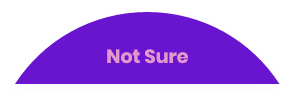
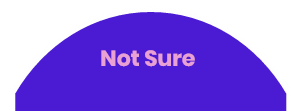
sth special'

diff --git a/lib/DataBase/addData.dart b/lib/DataBase/addData.dart
@@ -8,9 +8,12 @@ int count = 1;
 
 main(List<String> args) async{
   deleteAll().then((_){
-    addDb();
+    Future.delayed(Duration(seconds: 10)).then((_){
+      addDb();
+      }
+    );
   }
-  );
+);
 }
 
 addDb() async{
@@ -45,7 +48,7 @@ addDb() async{
   addRow("Denin Paul", "Aneeta", "M", "CSB", "Thrissur", "n", "T", "christian","CMI", "n", "y", "n", "n", "y", "n", "n" , "y"  , "y" , "n" , "n" , "n" );
   addRow("George Sabu", "Aneeta", "M", "CSB", "Kottayam", "n", "T", "christian","Kendriya Vidyalaya", "n", "n", "n", "n", "y", "y", "n" , "y"  , "n" , "n" , "n" , "n" );
   addRow("Abiram P", "Some other PG", "M", "CSB", "Kozhikode", "n", "A", "hindu","St Thomas", "n", "n", "n", "n", "n", "n", "n" , "n"  , "y" , "n" , "n" , "n" );
-  addRow("Joel Joshua", "MH", "M", "CSA", "Kasargode", "n", "A", "christian", "Chavara", "n", "y", "n", "n", "n", "n", "n" , "n"  , "n" , "n" , "n" , "n" );
+  addRow("Joel Joshua", "MH", "M", "CSA", "Kasargode", "n", "A", "christian", "Chavara", "n", "y", "n", "n", "n", "n", "n" , "n" , "n" , "n" , "n" , "n" );
   addRow("Neeraj Hari", "Some other PG", "M", "CSA", "Alapuzha", "n", "T", "hindu","Kendriya Vidyalaya", "n", "y", "n", "n", "y", "n", "y" , "n"  , "n" , "n" , "n" , "n" );
   addRow("Akhil Prem", "Some other PG", "M", "CSB", "Kannur", "y", "D", "hindu","Bharatiya Vidya Bhavan", "n", "n", "n", "n", "n", "n", "n" , "n"  , "n" , "n" , "n" , "n" );
   addRow("Jomey J James", "MH", "M", "CSB", "Thiruvananthapuram", "n", "A", "christian","KE", "n", "y", "n", "n", "n", "y", "n" , "n"  , "n" , "n" , "n" , "n" );
@@ -77,9 +80,7 @@ addDb() async{
   addRow("Vinayak Sidharth", "MH", "M", "CSB", "Kozhikode", "n", "A", "hindu","Rays Public School", "n", "n", "n", "n", "n", "n", "n" , "n"  , "n" , "n" , "n" , "n" );
   addRow("Kevin Abraham", "Sky Blue", "M", "CSA", "Ernakulam", "n", "R", "christian","Chavara", "n", "y", "n", "y", "n", "n", "n" , "n"  , "n" , "n" , "n" , "n" );
 
-
   //DS
-
   addRow("Goutham R", "NIL", "M", "CSA", "Kozhikode", "n", "R", "hindu","Saraswathi Vidyanikethan", "y", "n", "n", "n", "n", "n", "y" , "n"  , "n" , "n" , "n" , "n" );
   addRow("Pranav Jayashankar", "NIL", "M", "CSA", "Ernakulam", "n", "R", "hindu","Bhavan's Vidya Mandir", "y", "n", "y", "n", "y", "y", "n" , "n"  , "y" , "n" , "y" , "y" );
   addRow("Noel Eldho", "NIL", "M", "CSA", "Ernakulam", "n", "T", "christian","St Mary's", "y", "y", "n", "n", "n", "n", "n" , "n"  , "n" , "n" , "n" , "n" );
@@ -152,7 +153,7 @@ addRow(String name, String hostel, String gen, String clas, String place, String
   Person entry = Person(name: name, hostel: hostel, gen: gen, clas: clas, place: place, rep: rep, house:  house,rel:  rel,school:  school, ds: ds, specs: specs,singer:  singer,dancer:  dancer, programmer: programmer, sports: sports, musical: musical, meme: meme, creative: creative , drawing: drawing, speaker: speaker, actor: actor);
   var entryJson = entry.toMap();
   Response response = await addtoDb(entryJson);
-  print('Response status: ${response.reasonPhrase}. Added Entry: ${count++}');
+  print('Response status: ${response.reasonPhrase}. Added Entry: ${count++}. $name');
 }
 
 Future<Response> addtoDb(Map<String,String> json){

diff --git a/lib/game.dart b/lib/game.dart
@@ -337,7 +337,7 @@ class QuestionGeneratorState extends State<QuestionGenerator> {
                   (BuildContext context, List<String> incoming, List rejected) {
                 return Container(
                     width: 300 * wm,
-                    height: 78 * hm,
+                    height: 90 * hm,
                     decoration: BoxDecoration(
                         image: DecorationImage(
                             image: AssetImage('assets/dontknow.png'),
@@ -369,6 +369,11 @@ class QuestionGeneratorState extends State<QuestionGenerator> {
                       insufficientData = true;
                       Navigator.push(context,
                           MaterialPageRoute(builder: (context) => EndScreen()));
+                    } else if(currentQuestion == "Is $da a $regg ?"){
+                        dataList[0] = rithasha;
+                        print("You guessed ${dataList[0].name}");   
+                        Navigator.push(context,
+                        MaterialPageRoute(builder: (context) => EndScreen()));
                     }
                   } else {
                     question = dataList[0].name;
@@ -466,6 +471,8 @@ class QuestionCardState extends State<QuestionCard>
         question = firstQuestion();
         print(question);
       }
+
+      currentQuestion = question;
     });
 
     _animationController =

diff --git a/lib/Utils/global.dart b/lib/Utils/global.dart
@@ -13,6 +13,7 @@ bool isOffline = false;
 double wm;
 double hm;
 int battery = 3;
+String currentQuestion;
 
 List<Person> dataList;
 List<String> idk;
@@ -233,3 +234,7 @@ Widget noNetwork() {
         )
       ]));
 }
+
+
+//Easter Eggs
+Person rithasha = Person(name: "Ritasha Flemys");
